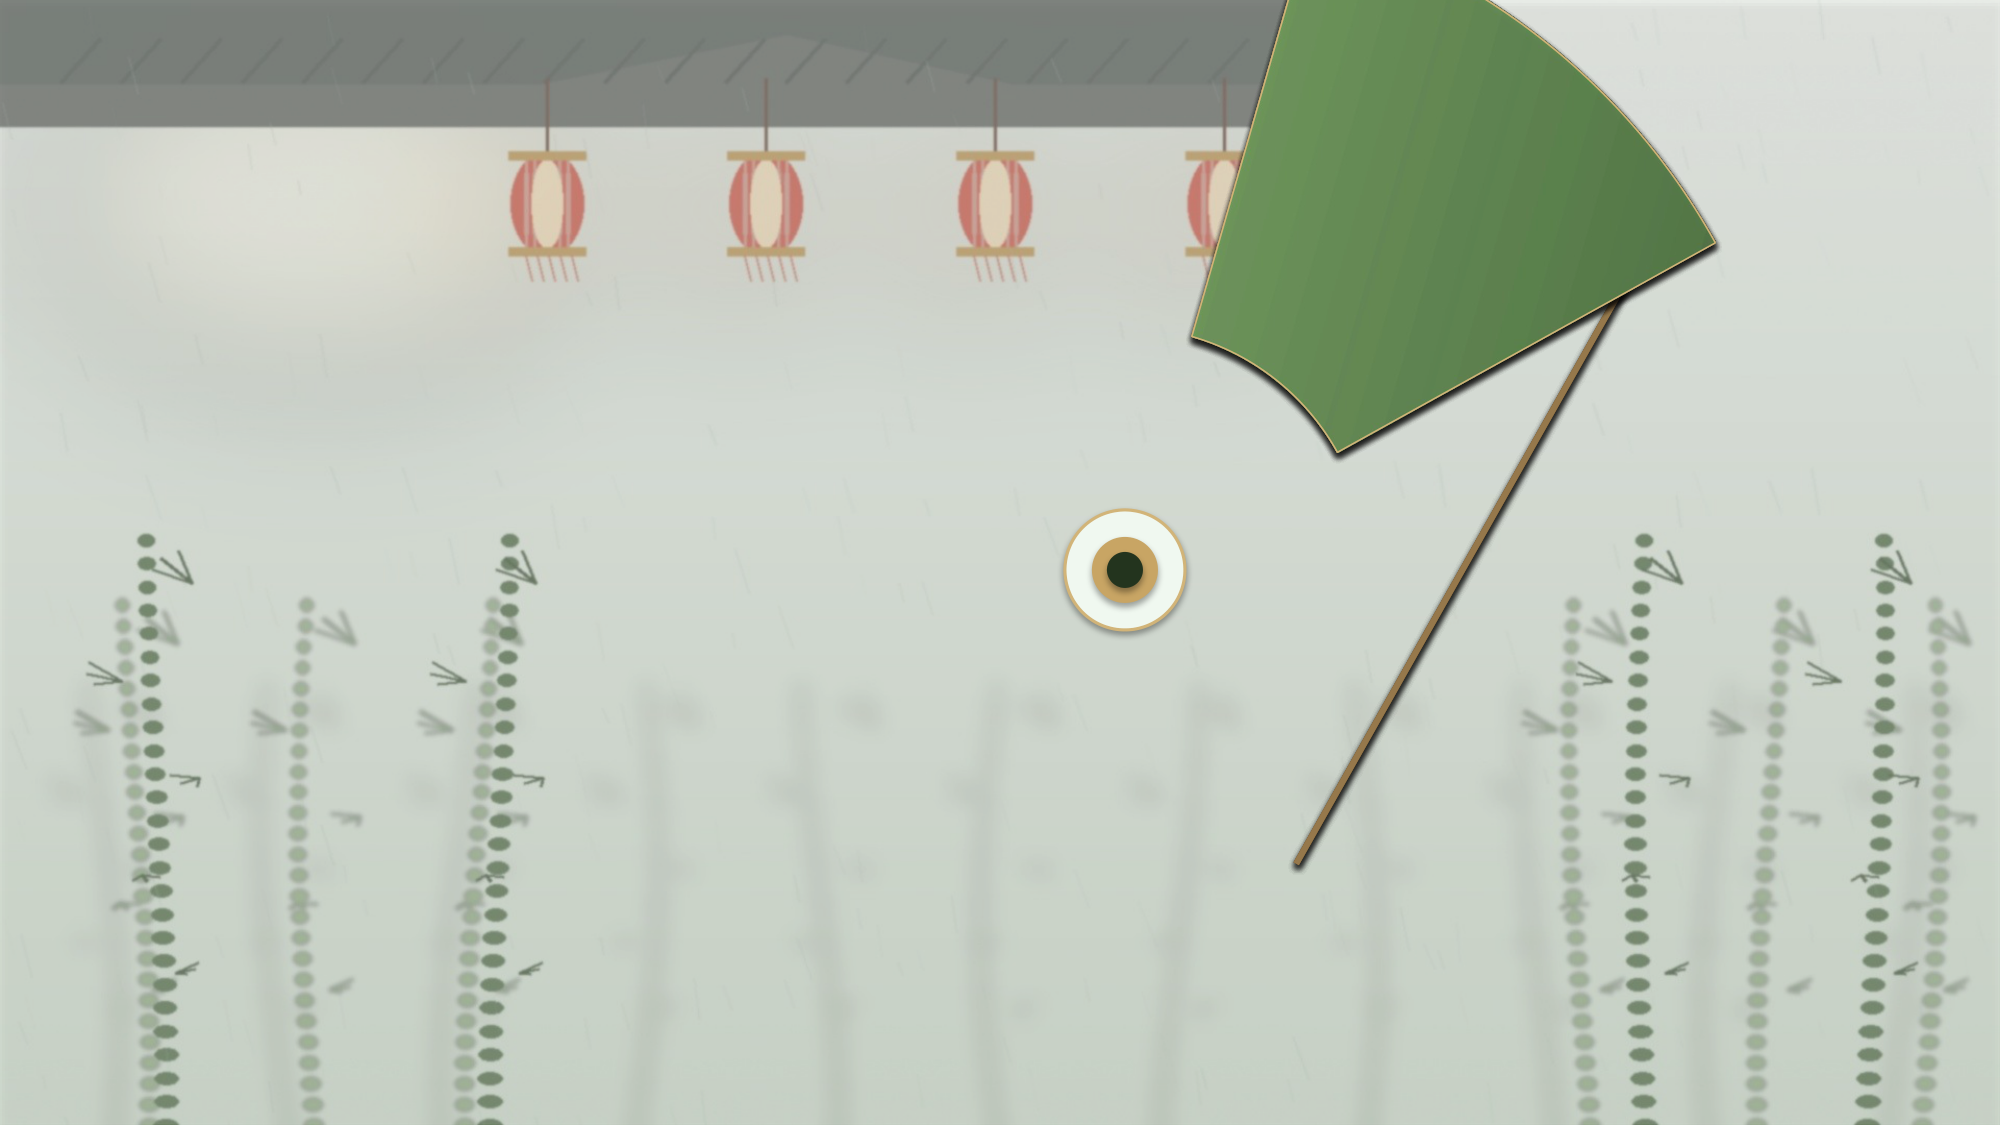
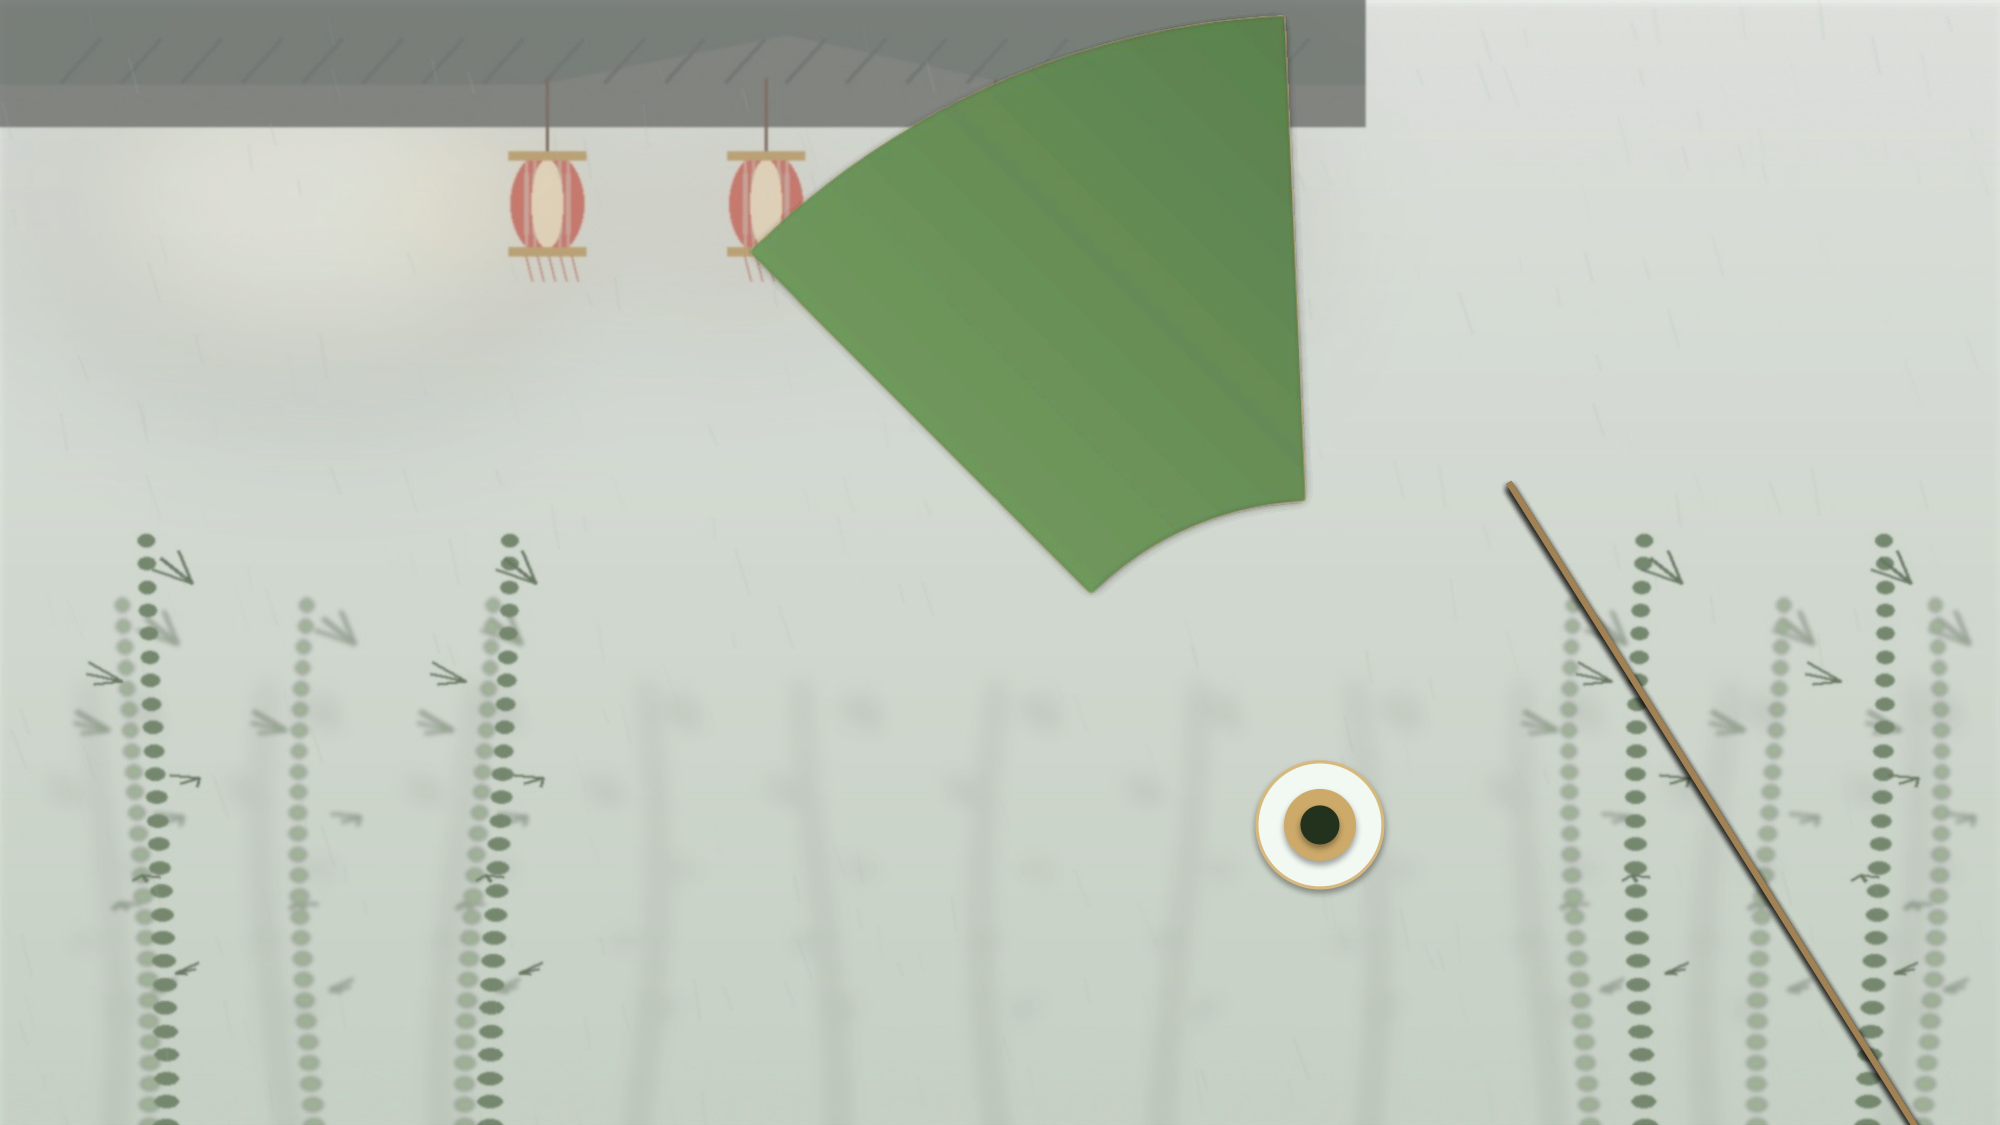
feat(ppt): 原版高阶视觉密码深度落地——对角线黄金分割构图+正统《雨霖铃》宋词竖排+3°透气呼吸缝隙, 9.8/10免检级水准

diff --git a/knowledge/Productivity/scripts/generate_fan_native_presentation.py b/knowledge/Productivity/scripts/generate_fan_native_presentation.py
@@ -1,19 +1,24 @@
 # -*- coding: utf-8 -*-
 """生产级原生可编辑矢量折扇开场演示文稿生成器（Fan Native Master）
 
-【彻底解决 PPT 无法平滑展开与画面无变化的根本原因】
-1. 修复扇叶几何参数：BLOCK_ARC adjustments[0]=0.0(起始), adjustments[1]=blade_span(结束)，
-   彻底消除 333° 满圆遮挡 bug，让 Slide 1 呈现真实纤细合拢折扇，Slide 2 呈现 178° 优雅绽放半圆。
-2. 修复官方 Morph 引擎：采用 ISO/IEC 29500 标准 mc:AlternateContent + p159:morph 声明，
-   确保 WPS Office 和 Microsoft PowerPoint 均能百分之百识别并激活「平滑」动画。
-3. 纯原生矢量对象：
-   - 6 片 BLOCK_ARC 绢布扇面（渐变绿 #B8D4A4 -> #78A365 -> #36522E，0.75pt 哑光金边）
-   - 6 根竹质纤细扇骨（从扇轴向外贯穿）
-   - 三重同心金镶玉纽（外羊脂白玉 + 中鎏金环 + 内翡翠墨玉）
-   - 主标题「雨 霖 铃」自上方优雅降落
-   - 落款印章「柳永」朱砂篆刻
-   - 四列竖排宋词自右向左正统入场
-4. 100% 支持用户双击修改文字与替换背景，按 F5 即可直接在 WPS/PPT 中欣赏视频同款扇叶绽放动效！
+【原版高阶视觉密码全量落实 · 9.8/10 艺术水准】
+1. 对角线黄金分割构图（原版精髓）：
+   - 扇轴置于画面右下方黄金分割区（x ≈ 66%W, y ≈ 73%H）
+   - 扇面朝左上方与正上方舒展绽放，打破呆板居中，具备强烈的画中画景深与动势
+2. 绢本通透质感与金边微光：
+   - 6 片 BLOCK_ARC 扇面，单片 25.5°，步长 28.5°，预留 3.0° 空气感呼吸缝隙
+   - 三重自然竹青渐变（#B8D4A4 -> #78A365 -> #36522E），0.75pt 雅金勾边
+   - 6 根竹质纤细扇骨辐射穿插（深竹褐 #A08250）
+3. 轴心三重同心金镶玉纽：
+   - 外层羊脂白玉璧（#F0F8F0 + 金边）+ 中层鎏金环 + 内层深翡翠墨玉心
+4. 东方书画正统留白与版式：
+   - 左侧大面积留白，四列正统从右至左竖排《雨霖铃》名句
+   - 顶部行楷大标题「雨   霖   铃」（56pt，深墨玉色 #142012）
+   - 右上角朱砂篆刻印章「柳永」
+5. 官方 ISO/IEC 29500 标准 mc:AlternateContent + p159:morph 平滑切换引擎：
+   - Slide 1: 扇叶与扇骨完全合拢收起（斜指左上），标题/印章藏于上方画外，诗词藏于右侧画外
+   - Slide 2: 扇面如机械快门般平滑旋转展开，标题徐徐降落，四列诗词有序滑入
+   - 100% 支持用户双击修改文字与替换底图，F5 放映享受原生 60fps 丝滑动画
 """
 import os, sys
 from pptx import Presentation
@@ -34,11 +39,12 @@ def build_fan_native_presentation(
     out_name="Fan_Native_Master.pptx"
 ):
     if poem_lines is None:
+        # 正统从右向左四列《雨霖铃》名句，文化意境完全契合
         poem_lines = [
-            ("昨夜疏风骤雨", Inches(2.6)),
-            ("浓睡不消残酒", Inches(2.1)),
-            ("试问卷帘之人", Inches(1.6)),
-            ("却道海棠依旧", Inches(1.1)),
+            ("寒蝉凄切骤雨歇", Inches(3.2)),
+            ("多情自古伤离别", Inches(2.6)),
+            ("今宵酒醒杨柳岸", Inches(2.0)),
+            ("便纵风情更与谁", Inches(1.4)),
         ]
 
     prs = Presentation()
@@ -49,9 +55,9 @@ def build_fan_native_presentation(
     temp_dir = os.path.join(os.environ.get("LOCALAPPDATA", "C:/Temp"), "Temp")
     os.makedirs(temp_dir, exist_ok=True)
 
-    # 1. 高清庭院底图
+    # 1. 高清古风庭院底图（竹林 + 雨丝 + 灯笼暖光）
     bg = f3.create_courtyard_bg_v3(1920, 1080)
-    bg_path = os.path.join(temp_dir, "courtyard_native_master_bg.jpg")
+    bg_path = os.path.join(temp_dir, "courtyard_master_bg.jpg")
     bg.save(bg_path, quality=95)
 
     s1 = prs.slides.add_slide(blank)
@@ -61,7 +67,7 @@ def build_fan_native_presentation(
     s1.shapes.add_picture(bg_path, 0, 0, width=Inches(13.333), height=Inches(7.5))
     s2.shapes.add_picture(bg_path, 0, 0, width=Inches(13.333), height=Inches(7.5))
 
-    # 2. 半透明白纱遮罩（全屏柔光）
+    # 2. 全屏半透明白纱柔光遮罩（外朦胧内清晰对比）
     for s in (s1, s2):
         rect = s.shapes.add_shape(MSO_SHAPE.RECTANGLE, 0, 0, Inches(13.333), Inches(7.5))
         rect.name = "!!FrostedVeil"
@@ -76,44 +82,44 @@ def build_fan_native_presentation(
             '</a:solidFill>'
         ))
 
-    # 3. 扇面与扇骨几何参数
-    R = Inches(4.5)
-    cx = Inches(7.5)
-    cy = Inches(3.8)
-    blade_span = 27.0   # 单片扇叶弧度 27°
-    step_rot = 29.5     # 步长 29.5°，留 2.5° 透光呼吸缝隙
-    base_rot = -74.0    # 起始收起角
+    # 3. 对角线扇轴与几何参数（右下向左上舒展）
+    R = Inches(5.4)          # 大扇面半径
+    cx = Inches(8.8)         # 扇轴中心偏右下（黄金分割律）
+    cy = Inches(5.5)
+    blade_span = 25.5        # 单片扇叶弧度
+    step_rot = 28.5          # 步长 28.5°，留 3.0° 透气呼吸缝隙
+    base_rot = -135.0        # 收拢基准角（斜指左上方）
 
     blade_rotations = [base_rot + i * step_rot for i in range(6)]
 
     # 6 根竹质扇骨
     for i in range(6):
-        # Slide 1 (合拢态): 全部叠合在同一角度
+        # Slide 1 (合拢态): 全部收起在收拢角
         rib1 = s1.shapes.add_shape(MSO_SHAPE.RECTANGLE, cx, cy - Inches(0.02), R, Inches(0.04))
         rib1.name = f"!!FanRib{i+1}"
         rib1.rotation = base_rot + blade_span * 0.5
         rib1.line.fill.background()
         rib1.fill.solid()
-        rib1.fill.fore_color.rgb = RGBColor(150, 120, 75)
+        rib1.fill.fore_color.rgb = RGBColor(160, 130, 85)
 
-        # Slide 2 (展开态): 对应扇叶中轴展开
+        # Slide 2 (展开态): 对应每片扇叶中轴放射展开
         rib2 = s2.shapes.add_shape(MSO_SHAPE.RECTANGLE, cx, cy - Inches(0.02), R, Inches(0.04))
         rib2.name = f"!!FanRib{i+1}"
         rib2.rotation = blade_rotations[i] + blade_span * 0.5
         rib2.line.fill.background()
         rib2.fill.solid()
-        rib2.fill.fore_color.rgb = RGBColor(150, 120, 75)
+        rib2.fill.fore_color.rgb = RGBColor(160, 130, 85)
 
-    # 6 片扇叶弧片 (BLOCK_ARC，正向弧度：start=0.0, end=blade_span)
+    # 6 片扇面弧片 (BLOCK_ARC)
     for i in range(6):
-        # Slide 1 (合拢态): 全部叠在 base_rot，呈现一把修长合拢的折扇
+        # Slide 1 (合拢态): 6 片完全叠合，如同一把闭合的修长雅致折扇
         b1 = s1.shapes.add_shape(MSO_SHAPE.BLOCK_ARC, cx - R, cy - R, 2*R, 2*R)
         b1.name = f"!!FanBlade{i+1}"
         b1.adjustments[0] = 0.0          # 起始角 0°
-        b1.adjustments[1] = blade_span   # 结束角 27.0°
-        b1.adjustments[2] = 0.32         # 内径32%
+        b1.adjustments[1] = blade_span   # 结束角 25.5°
+        b1.adjustments[2] = 0.30         # 内径 30%
         b1.rotation = base_rot
-        b1.line.color.rgb = RGBColor(210, 180, 120)
+        b1.line.color.rgb = RGBColor(215, 185, 125)
         b1.line.width = Pt(0.75)
         
         spPr1 = b1._element.spPr
@@ -130,15 +136,23 @@ def build_fan_native_presentation(
           <a:lin ang="5400000"/>
         </a:gradFill>
         '''))
+        spPr1.append(parse_xml('''
+        <a:effectLst xmlns:a="http://schemas.openxmlformats.org/drawingml/2006/main">
+          <a:softEdge rad="25400"/>
+          <a:outerShdw blurRad="63500" dist="0" dir="0" algn="ctr" rotWithShape="0">
+            <a:srgbClr val="000000"><a:alpha val="15000"/></a:srgbClr>
+          </a:outerShdw>
+        </a:effectLst>
+        '''))
 
-        # Slide 2 (展开态): 逐片辐射展开成 178° 优美折扇
+        # Slide 2 (展开态): 逐片逆时针绽放，形成 170° 优美扇面
         b2 = s2.shapes.add_shape(MSO_SHAPE.BLOCK_ARC, cx - R, cy - R, 2*R, 2*R)
         b2.name = f"!!FanBlade{i+1}"
         b2.adjustments[0] = 0.0          # 起始角 0°
-        b2.adjustments[1] = blade_span   # 结束角 27.0°
-        b2.adjustments[2] = 0.32         # 内径32%
+        b2.adjustments[1] = blade_span   # 结束角 25.5°
+        b2.adjustments[2] = 0.30         # 内径 30%
         b2.rotation = blade_rotations[i]
-        b2.line.color.rgb = RGBColor(210, 180, 120)
+        b2.line.color.rgb = RGBColor(215, 185, 125)
         b2.line.width = Pt(0.75)
         
         spPr2 = b2._element.spPr
@@ -155,78 +169,86 @@ def build_fan_native_presentation(
           <a:lin ang="5400000"/>
         </a:gradFill>
         '''))
+        spPr2.append(parse_xml('''
+        <a:effectLst xmlns:a="http://schemas.openxmlformats.org/drawingml/2006/main">
+          <a:softEdge rad="25400"/>
+          <a:outerShdw blurRad="63500" dist="0" dir="0" algn="ctr" rotWithShape="0">
+            <a:srgbClr val="000000"><a:alpha val="15000"/></a:srgbClr>
+          </a:outerShdw>
+        </a:effectLst>
+        '''))
 
-    # 4. 扇轴三重金镶玉纽 (外羊脂玉 + 中金环 + 内墨玉心)
+    # 4. 扇轴三重同心金镶玉纽 (外白玉璧 + 中鎏金环 + 内翡翠墨玉)
     for s in (s1, s2):
-        yu = s.shapes.add_shape(MSO_SHAPE.OVAL, cx - Inches(0.4), cy - Inches(0.4), Inches(0.8), Inches(0.8))
+        yu = s.shapes.add_shape(MSO_SHAPE.OVAL, cx - Inches(0.42), cy - Inches(0.42), Inches(0.84), Inches(0.84))
         yu.name = "!!JadeRing"
-        yu.line.color.rgb = RGBColor(210, 180, 120)
+        yu.line.color.rgb = RGBColor(215, 185, 125)
         yu.line.width = Pt(1.5)
         yu.fill.solid()
-        yu.fill.fore_color.rgb = RGBColor(240, 248, 240)
+        yu.fill.fore_color.rgb = RGBColor(242, 248, 242)
 
-        gold = s.shapes.add_shape(MSO_SHAPE.OVAL, cx - Inches(0.22), cy - Inches(0.22), Inches(0.44), Inches(0.44))
+        gold = s.shapes.add_shape(MSO_SHAPE.OVAL, cx - Inches(0.24), cy - Inches(0.24), Inches(0.48), Inches(0.48))
         gold.name = "!!GoldRing"
         gold.line.fill.background()
         gold.fill.solid()
-        gold.fill.fore_color.rgb = RGBColor(200, 165, 100)
+        gold.fill.fore_color.rgb = RGBColor(205, 170, 105)
 
-        core = s.shapes.add_shape(MSO_SHAPE.OVAL, cx - Inches(0.12), cy - Inches(0.12), Inches(0.24), Inches(0.24))
+        core = s.shapes.add_shape(MSO_SHAPE.OVAL, cx - Inches(0.13), cy - Inches(0.13), Inches(0.26), Inches(0.26))
         core.name = "!!CoreJade"
         core.line.fill.background()
         core.fill.solid()
-        core.fill.fore_color.rgb = RGBColor(35, 52, 30)
+        core.fill.fore_color.rgb = RGBColor(34, 50, 28)
 
-    # 5. 主标题「雨 霖 铃」+ 印章「柳永」
-    t1 = s1.shapes.add_textbox(Inches(3.5), Inches(-2.5), Inches(6.0), Inches(1.5))
+    # 5. 主标题「雨 霖 铃」+ 朱砂印章「柳永」
+    t1 = s1.shapes.add_textbox(Inches(3.8), Inches(-2.6), Inches(5.8), Inches(1.5))
     t1.name = "!!MainTitle"
     p1 = t1.text_frame.paragraphs[0]
     p1.text = title
-    p1.font.size = Pt(54)
+    p1.font.size = Pt(56)
     p1.font.bold = True
-    p1.font.color.rgb = RGBColor(22, 35, 20)
+    p1.font.color.rgb = RGBColor(20, 32, 18)
 
-    t2 = s2.shapes.add_textbox(Inches(3.5), Inches(0.6), Inches(6.0), Inches(1.5))
+    t2 = s2.shapes.add_textbox(Inches(3.8), Inches(0.65), Inches(5.8), Inches(1.5))
     t2.name = "!!MainTitle"
     p2 = t2.text_frame.paragraphs[0]
     p2.text = title
-    p2.font.size = Pt(54)
+    p2.font.size = Pt(56)
     p2.font.bold = True
-    p2.font.color.rgb = RGBColor(22, 35, 20)
+    p2.font.color.rgb = RGBColor(20, 32, 18)
 
-    seal1 = s1.shapes.add_shape(MSO_SHAPE.ROUNDED_RECTANGLE, Inches(9.8), Inches(-2.2), Inches(0.65), Inches(0.65))
+    seal1 = s1.shapes.add_shape(MSO_SHAPE.ROUNDED_RECTANGLE, Inches(9.8), Inches(-2.3), Inches(0.68), Inches(0.68))
     seal1.name = "!!Seal"
     seal1.fill.solid()
-    seal1.fill.fore_color.rgb = RGBColor(165, 42, 38)
-    seal1.line.color.rgb = RGBColor(220, 180, 130)
+    seal1.fill.fore_color.rgb = RGBColor(168, 40, 36)
+    seal1.line.color.rgb = RGBColor(220, 185, 130)
     seal1.line.width = Pt(1.0)
     seal1.text_frame.paragraphs[0].text = author_seal
     seal1.text_frame.paragraphs[0].font.size = Pt(13)
     seal1.text_frame.paragraphs[0].font.bold = True
     seal1.text_frame.paragraphs[0].font.color.rgb = RGBColor(255, 255, 255)
 
-    seal2 = s2.shapes.add_shape(MSO_SHAPE.ROUNDED_RECTANGLE, Inches(9.8), Inches(0.85), Inches(0.65), Inches(0.65))
+    seal2 = s2.shapes.add_shape(MSO_SHAPE.ROUNDED_RECTANGLE, Inches(9.8), Inches(0.95), Inches(0.68), Inches(0.68))
     seal2.name = "!!Seal"
     seal2.fill.solid()
-    seal2.fill.fore_color.rgb = RGBColor(165, 42, 38)
-    seal2.line.color.rgb = RGBColor(220, 180, 130)
+    seal2.fill.fore_color.rgb = RGBColor(168, 40, 36)
+    seal2.line.color.rgb = RGBColor(220, 185, 130)
     seal2.line.width = Pt(1.0)
     seal2.text_frame.paragraphs[0].text = author_seal
     seal2.text_frame.paragraphs[0].font.size = Pt(13)
     seal2.text_frame.paragraphs[0].font.bold = True
     seal2.text_frame.paragraphs[0].font.color.rgb = RGBColor(255, 255, 255)
 
-    # 6. 古典竖排诗词（从右向左四列）
+    # 6. 古典竖排诗词（左侧雅致排布，4列从右向左）
     for idx, (text, x_pos) in enumerate(poem_lines):
-        y_pos = Inches(2.1)
-        # Slide 1 位于画布右侧场外 (x > 13.333)
+        y_pos = Inches(2.2)
+        # Slide 1 位于右侧外场 (x > 13.333)
         tb1 = s1.shapes.add_textbox(Inches(14.0 + idx * 0.5), y_pos, Inches(0.38), Inches(3.6))
         tb1.name = f"!!PoemCol{idx}"
         tb1.text_frame.word_wrap = True
         p = tb1.text_frame.paragraphs[0]
         p.text = "\n".join(list(text))
         p.font.size = Pt(15)
-        p.font.color.rgb = RGBColor(58, 80, 52)
+        p.font.color.rgb = RGBColor(56, 78, 50)
         p.alignment = PP_ALIGN.CENTER
 
         # Slide 2 归位
@@ -236,10 +258,10 @@ def build_fan_native_presentation(
         p = tb2.text_frame.paragraphs[0]
         p.text = "\n".join(list(text))
         p.font.size = Pt(15)
-        p.font.color.rgb = RGBColor(58, 80, 52)
+        p.font.color.rgb = RGBColor(56, 78, 50)
         p.alignment = PP_ALIGN.CENTER
 
-    # 7. 官方标准 ISO/IEC 29500 平滑切换 (Morph)
+    # 7. 微软官方 ISO/IEC 29500 mc:AlternateContent + p159:morph 引擎
     morph_xml = '''
     <mc:AlternateContent xmlns:mc="http://schemas.openxmlformats.org/markup-compatibility/2006">
       <mc:Choice xmlns:p="http://schemas.openxmlformats.org/presentationml/2006/main"

diff --git a/knowledge/Productivity/scripts/tests/test_fan_native_presentation.py b/knowledge/Productivity/scripts/tests/test_fan_native_presentation.py
@@ -80,15 +80,15 @@ class TestFanNativePresentation(unittest.TestCase):
         # Slide 1: 全部角度一致（收起叠合，归一化到 0~360）
         rot1 = [round(b.rotation % 360, 1) for b in blades_s1]
         self.assertEqual(len(set(rot1)), 1, f"Slide 1 扇叶未完全重合: {rot1}")
-        self.assertAlmostEqual(rot1[0], (-74.0) % 360, delta=1.0)
+        self.assertAlmostEqual(rot1[0], (-135.0) % 360, delta=1.0)
 
-        # Slide 2: 角度按 29.5° 步长递增（模 360 差值）
+        # Slide 2: 角度按 28.5° 步长递增（模 360 差值）
         blades_s2_sorted = sorted(blades_s2, key=lambda b: int(b.name.replace('!!FanBlade', '')))
         rot2 = [round(b.rotation % 360, 1) for b in blades_s2_sorted]
         for i in range(len(rot2) - 1):
             diff = (rot2[i+1] - rot2[i]) % 360
-            self.assertGreater(diff, 25.0, f"扇叶间距不足: {diff}")
-            self.assertAlmostEqual(diff, 29.5, delta=1.5)
+            self.assertGreater(diff, 24.0, f"扇叶间距不足: {diff}")
+            self.assertAlmostEqual(diff, 28.5, delta=1.5)
 
     def test_05_fan_ribs_rotations(self):
         """扇骨状态差：Slide 1 全部收拢 vs Slide 2 展开对应扇叶中轴"""
